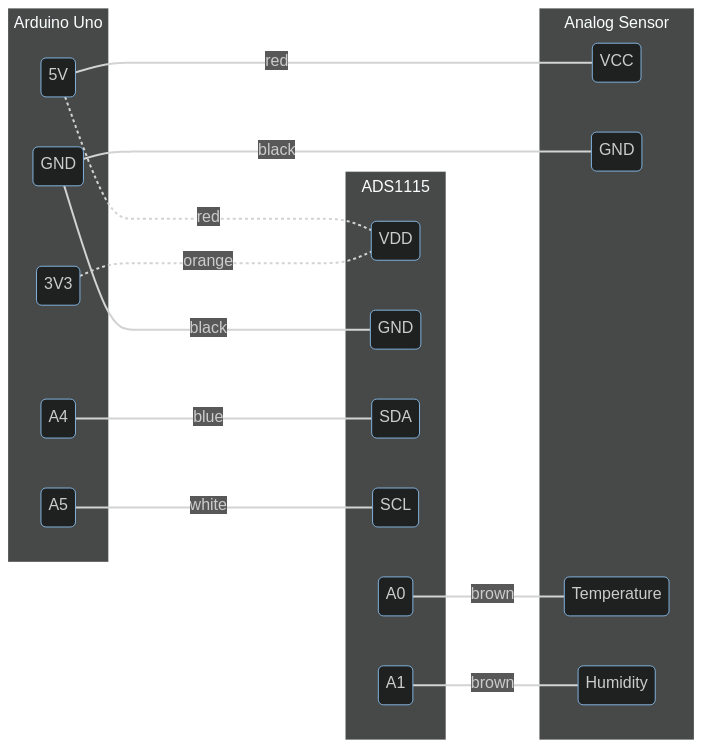
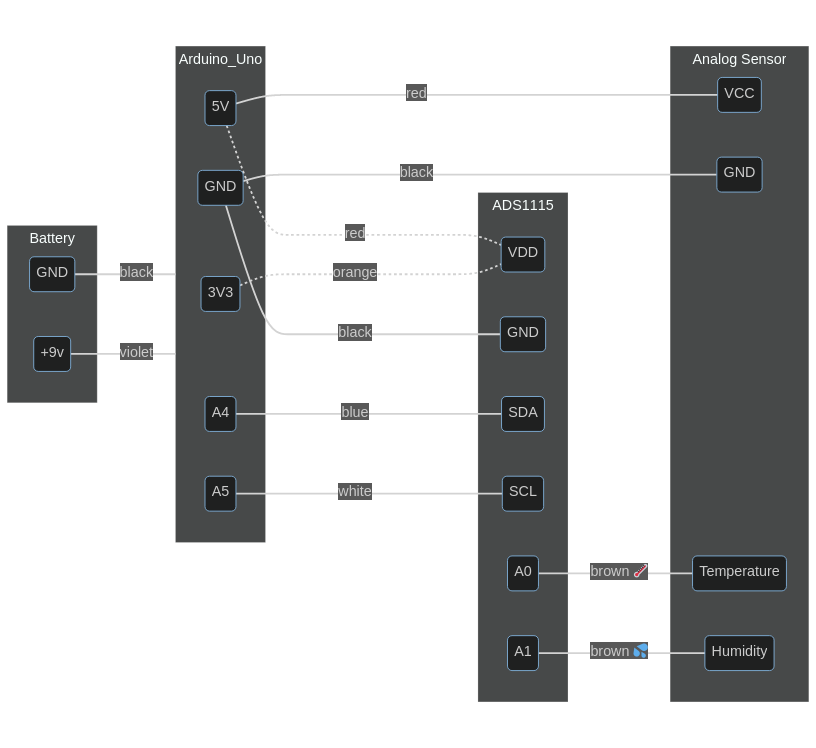
battery

diff --git a/wires.md b/wires.md
@@ -23,8 +23,8 @@ flowchart LR;
   Uno_A4---|blue|L75_SDA
   Uno_A5---|white|L75_SCL
   Uno_GND---|black|L75_GND
-  Battery_V(+9v)===|violet|Uno_Battery_Plug+(+V)
-  Battery_GND(GND)===|black|Uno_Battery_Plug-(GND)
+  Battery_V(+9v)---|violet|Arduino_Uno
+  Battery_GND(GND)---|black|Arduino_Uno
   
   subgraph "🌡 LM75"
     L75_VCC(VCC)
@@ -33,7 +33,7 @@ flowchart LR;
     L75_SCL(SCL)
   end
 
-  subgraph "Arduino Uno"
+  subgraph Arduino_Uno
     Uno_3V3(3V3)
     Uno_5V(5V)
     Uno_GND(GND)
@@ -43,11 +43,11 @@ flowchart LR;
     Uno_Battery_Plug-(GND)
   end
 
-  subgraph "🔋 Battery"
+  subgraph "Battery"
     Battery_V(+9v)
     Battery_GND(GND)
   end
-```
+ ```
 
 ## Example ADC (ADS1115)
 
@@ -62,6 +62,8 @@ flowchart LR;
     Uno_A5(A5)---|white|ADS1115_SCL(SCL)
     ADS1115_A0(A0)---|"brown 🌡"|Sensor1(Temperature)
     ADS1115_A1(A1)---|"brown 💦"|Sensor2(Humidity)
+    Battery_V(+9v)---|violet|Arduino_Uno
+    Battery_GND(GND)---|black|Arduino_Uno
 
     subgraph Analog Sensor
       SensorVCC(VCC)
@@ -80,11 +82,16 @@ flowchart LR;
       ADS1115_A1(A1)
     end
 
-    subgraph Arduino Uno
+    subgraph Arduino_Uno
       Uno_3V3(3V3)
       Uno_5V(5V)
       Uno_GND(GND)
       Uno_A4(A4)
       Uno_A5(A5)
+    end
+
+    subgraph "Battery"
+      Battery_V(+9v)
+      Battery_GND(GND)
     end
 ```
